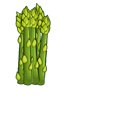
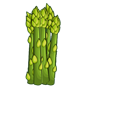
new crop orb: Spinach

Changed region(s): [[0.0938, 0.0, 0.5, 0.6875]]

diff --git a/src/main/java/thesimpleton/crops/SpinachCrop.java b/src/main/java/thesimpleton/crops/SpinachCrop.java
@@ -5,33 +5,36 @@ import com.megacrit.cardcrawl.cards.AbstractCard;
 import com.megacrit.cardcrawl.characters.AbstractPlayer;
 import com.megacrit.cardcrawl.dungeons.AbstractDungeon;
 import com.megacrit.cardcrawl.powers.DexterityPower;
+import com.megacrit.cardcrawl.powers.StrengthPower;
 import thesimpleton.cards.SimpletonUtil;
 import thesimpleton.cards.power.crop.AbstractCropPowerCard;
-import thesimpleton.cards.power.crop.Asparagus;
-import thesimpleton.orbs.AsparagusCropOrb;
+import thesimpleton.cards.power.crop.Spinach;
+import thesimpleton.orbs.SpinachCropOrb;
 import thesimpleton.powers.utils.Crop;
 
-public class AsparagusCrop extends AbstractCrop {
-  public static final Crop CROP_ENUM = Crop.ASPARAGUS;
-  private static final String ORB_ID = AsparagusCropOrb.ORB_ID;
-  private static final AbstractCropPowerCard POWER_CARD = new Asparagus();
+public class SpinachCrop extends AbstractCrop {
+  public static final Crop CROP_ENUM = Crop.SPINACH;
+  private static final String ORB_ID = SpinachCropOrb.ORB_ID;
+  private static final AbstractCropPowerCard POWER_CARD = new Spinach();
+
   private static final AbstractCard.CardRarity RARITY = AbstractCard.CardRarity.UNCOMMON;
 
-  public static final int MATURITY_THRESHOLD = 3;
-  public static int DEXTERITY_PER_STACK = 1;
+  public static final int MATURITY_THRESHOLD = 2;
+  public static int STRENGTH_PER_STACK = 1;
 
-  public AsparagusCrop() {
+  public SpinachCrop() {
     super(CROP_ENUM, ORB_ID, POWER_CARD, RARITY, MATURITY_THRESHOLD);
-    logger.debug("MAKIN' Asparagus (instantiating Asparagus).");
+    logger.debug("MAKIN' Spinach (instantiating Spinach).");
   }
 
+  @Override
   protected int harvestAction(int harvestAmount) {
     AbstractPlayer player = SimpletonUtil.getPlayer();
+
     if (harvestAmount > 0) {
       AbstractDungeon.actionManager.addToTop(
           new ApplyPowerAction(player, player,
-              new DexterityPower(player, harvestAmount * DEXTERITY_PER_STACK),
-              harvestAmount * DEXTERITY_PER_STACK));
+              new StrengthPower(player, harvestAmount * STRENGTH_PER_STACK), harvestAmount * STRENGTH_PER_STACK));
     }
     return harvestAmount;
   }

diff --git a/src/main/java/thesimpleton/orbs/SpinachCropOrb.java b/src/main/java/thesimpleton/orbs/SpinachCropOrb.java
@@ -4,25 +4,24 @@ import com.megacrit.cardcrawl.core.CardCrawlGame;
 import com.megacrit.cardcrawl.localization.OrbStrings;
 import com.megacrit.cardcrawl.orbs.AbstractOrb;
 import thesimpleton.TheSimpletonMod;
-import thesimpleton.crops.AbstractCrop;
-import thesimpleton.crops.AsparagusCrop;
+import thesimpleton.cards.power.crop.Spinach;
 import thesimpleton.crops.SpinachCrop;
 import thesimpleton.powers.utils.Crop;
 
-public class AsparagusCropOrb extends AbstractCropOrb {
-  public static final Crop CROP_ENUM = Crop.ASPARAGUS;
-  public static final String ORB_ID = "TheSimpletonMod:AsparagusCropOrb";
-  public static final String IMG_PATH = "TheSimpletonMod/img/orbs/plantasparagus.png";
+public class SpinachCropOrb extends AbstractCropOrb {
+  public static final Crop CROP_ENUM = Crop.SPINACH;
+  public static final String ORB_ID = "TheSimpletonMod:SpinachCropOrb";
+  public static final String IMG_PATH = "TheSimpletonMod/img/orbs/plantspinach.png";
   private static final OrbStrings orbStrings;
   public static final String NAME;
   public static final String[] DESCRIPTIONS;
 
-  public AsparagusCropOrb() {
+  public SpinachCropOrb() {
     this(0);
   }
 
-  public AsparagusCropOrb(int amount) {
-    super(CROP_ENUM, ORB_ID, NAME, amount, AsparagusCrop.MATURITY_THRESHOLD, DESCRIPTIONS[0], IMG_PATH);
+  public SpinachCropOrb(int amount) {
+    super(CROP_ENUM, ORB_ID, NAME, amount, SpinachCrop.MATURITY_THRESHOLD, DESCRIPTIONS[0], IMG_PATH);
   }
 
   @Override
@@ -32,7 +31,7 @@ public class AsparagusCropOrb extends AbstractCropOrb {
 
   @Override
   public AbstractOrb makeCopy() {
-    return new AsparagusCropOrb();
+    return new SpinachCropOrb();
   }
 
   @Override
@@ -41,8 +40,8 @@ public class AsparagusCropOrb extends AbstractCropOrb {
   }
 
   private static String getDescription() {
-    return getGenericDescription(AsparagusCrop.MATURITY_THRESHOLD)
-        + " NL " + DESCRIPTIONS[0]  + AsparagusCrop.DEXTERITY_PER_STACK+ DESCRIPTIONS[1];
+    return getGenericDescription(SpinachCrop.MATURITY_THRESHOLD)
+        + " NL " + DESCRIPTIONS[0]  + SpinachCrop.STRENGTH_PER_STACK + DESCRIPTIONS[1];
   }
 
   @Override

diff --git a/src/main/java/thesimpleton/orbs/ChiliCropOrb.java b/src/main/java/thesimpleton/orbs/ChiliCropOrb.java
@@ -4,14 +4,14 @@ import com.megacrit.cardcrawl.core.CardCrawlGame;
 import com.megacrit.cardcrawl.localization.OrbStrings;
 import com.megacrit.cardcrawl.orbs.AbstractOrb;
 import thesimpleton.TheSimpletonMod;
+import thesimpleton.crops.ChilisCrop;
+import thesimpleton.crops.SpinachCrop;
 import thesimpleton.powers.utils.Crop;
 
 public class ChiliCropOrb extends AbstractCropOrb {
   public static final Crop CROP_ENUM = Crop.CHILIS;
   public static final String ORB_ID = "TheSimpletonMod:ChiliCropOrb";
   public static final String IMG_PATH = "TheSimpletonMod/img/orbs/plantchili.png";
-  public static final int MATURITY_THRESHOLD = 5;
-  public static final int DAMAGE_PER_STACK = 3;
   private static final OrbStrings orbStrings;
   public static final String NAME;
   public static final String[] DESCRIPTIONS;
@@ -21,7 +21,7 @@ public class ChiliCropOrb extends AbstractCropOrb {
   }
 
   public ChiliCropOrb(int amount) {
-    super(CROP_ENUM, ORB_ID, NAME, amount, MATURITY_THRESHOLD, DESCRIPTIONS[0], IMG_PATH);
+    super(CROP_ENUM, ORB_ID, NAME, amount, SpinachCrop.MATURITY_THRESHOLD, DESCRIPTIONS[0], IMG_PATH);
   }
 
   @Override
@@ -40,8 +40,9 @@ public class ChiliCropOrb extends AbstractCropOrb {
   }
 
   private static String getDescription() {
-    return getGenericDescription(MATURITY_THRESHOLD)
-        + " NL " + DESCRIPTIONS[0] + DAMAGE_PER_STACK + DESCRIPTIONS[1] + DAMAGE_PER_STACK + DESCRIPTIONS[2];
+    return getGenericDescription(SpinachCrop.MATURITY_THRESHOLD)
+        + " NL " + DESCRIPTIONS[0] + ChilisCrop.DAMAGE_PER_STACK + DESCRIPTIONS[1] + ChilisCrop.DAMAGE_PER_STACK
+        + DESCRIPTIONS[2];
   }
 
   @Override

diff --git a/src/main/java/thesimpleton/orbs/PotatoCropOrb.java b/src/main/java/thesimpleton/orbs/PotatoCropOrb.java
@@ -4,13 +4,13 @@ import com.megacrit.cardcrawl.core.CardCrawlGame;
 import com.megacrit.cardcrawl.localization.OrbStrings;
 import com.megacrit.cardcrawl.orbs.AbstractOrb;
 import thesimpleton.TheSimpletonMod;
+import thesimpleton.crops.PotatoesCrop;
 import thesimpleton.powers.utils.Crop;
 
 public class PotatoCropOrb extends AbstractCropOrb {
     public static final Crop CROP_ENUM = Crop.POTATOES;
     public static final String ORB_ID = "TheSimpletonMod:PotatoCropOrb";
     public static final String IMG_PATH = "TheSimpletonMod/img/orbs/plantpotato.png";
-    public static final int MATURITY_THRESHOLD = 2;
     private static final OrbStrings orbStrings;
     public static final String NAME;
     public static final String[] DESCRIPTIONS;
@@ -20,7 +20,7 @@ public class PotatoCropOrb extends AbstractCropOrb {
     }
 
     public PotatoCropOrb(int amount) {
-        super(CROP_ENUM, ORB_ID, NAME, amount, MATURITY_THRESHOLD, DESCRIPTIONS[0], IMG_PATH);
+        super(CROP_ENUM, ORB_ID, NAME, amount, PotatoesCrop.MATURITY_THRESHOLD, DESCRIPTIONS[0], IMG_PATH);
     }
 
     @Override
@@ -39,7 +39,7 @@ public class PotatoCropOrb extends AbstractCropOrb {
     }
 
     private static String getDescription() {
-        return getGenericDescription(MATURITY_THRESHOLD)
+        return getGenericDescription(PotatoesCrop.MATURITY_THRESHOLD)
             + " NL " + DESCRIPTIONS[0];
     }
 

diff --git a/src/main/java/thesimpleton/orbs/MushroomCropOrb.java b/src/main/java/thesimpleton/orbs/MushroomCropOrb.java
@@ -4,13 +4,13 @@ import com.megacrit.cardcrawl.core.CardCrawlGame;
 import com.megacrit.cardcrawl.localization.OrbStrings;
 import com.megacrit.cardcrawl.orbs.AbstractOrb;
 import thesimpleton.TheSimpletonMod;
+import thesimpleton.crops.MushroomCrop;
 import thesimpleton.powers.utils.Crop;
 
 public class MushroomCropOrb extends AbstractCropOrb {
   public static final Crop CROP_ENUM = Crop.MUSHROOMS;
   public static final String ORB_ID = "TheSimpletonMod:MushroomCropOrb";
   public static final String IMG_PATH = "TheSimpletonMod/img/orbs/plantmushroom.png";
-  public static final int MATURITY_THRESHOLD = 2;
   private static final OrbStrings orbStrings;
   public static final String NAME;
   public static final String[] DESCRIPTIONS;
@@ -20,7 +20,7 @@ public class MushroomCropOrb extends AbstractCropOrb {
   }
 
   public MushroomCropOrb(int amount) {
-    super(CROP_ENUM, ORB_ID, NAME, amount, MATURITY_THRESHOLD, DESCRIPTIONS[0], IMG_PATH);
+    super(CROP_ENUM, ORB_ID, NAME, amount, MushroomCrop.MATURITY_THRESHOLD, DESCRIPTIONS[0], IMG_PATH);
   }
 
   @Override
@@ -39,7 +39,7 @@ public class MushroomCropOrb extends AbstractCropOrb {
   }
 
   private static String getDescription() {
-    return getGenericDescription(MATURITY_THRESHOLD)
+    return getGenericDescription(MushroomCrop.MATURITY_THRESHOLD)
         + " NL " + DESCRIPTIONS[0];
   }
 

diff --git a/src/main/java/thesimpleton/crops/AbstractCrop.java b/src/main/java/thesimpleton/crops/AbstractCrop.java
@@ -16,7 +16,6 @@ import thesimpleton.cards.TheSimpletonCardTags;
 import thesimpleton.cards.power.crop.AbstractCropPowerCard;
 import thesimpleton.characters.TheSimpletonCharacter;
 import thesimpleton.orbs.AbstractCropOrb;
-import thesimpleton.powers.PlantAsparagusPower;
 import thesimpleton.powers.ToughSkinPower;
 import thesimpleton.powers.utils.Crop;
 import thesimpleton.relics.CashCrop;
@@ -309,7 +308,8 @@ abstract public class AbstractCrop {
       final MushroomCrop mushroomCrop = new MushroomCrop();
 //      final PlantOnionPower onionPower = new PlantOnionPower(dummy, 0);
       final PotatoesCrop potatoesCrop = new PotatoesCrop();
-//      final PlantSpinachPower spinachPower = new PlantSpinachPower(dummy, 0);
+      final SpinachCrop spinachCrop = new SpinachCrop();
+
 //      final PlantTurnipPower turnipPower = new PlantTurnipPower(dummy, 0);
 
 //      referenceCrops.add(artichokePower);
@@ -318,10 +318,9 @@ abstract public class AbstractCrop {
       referenceCrops.add(potatoesCrop);
       referenceCrops.add(cornCrop);
       referenceCrops.add(squashCrop);
-//      referenceCrops.add(spinachPower);
+      referenceCrops.add(spinachCrop);
       referenceCrops.add(mushroomCrop);
 //      referenceCrops.add(onionPower);
-//      referenceCrops.add(potatoPower);
 //      referenceCrops.add(turnipPower);
 
     }

diff --git a/src/main/java/thesimpleton/orbs/CornCropOrb.java b/src/main/java/thesimpleton/orbs/CornCropOrb.java
@@ -4,13 +4,13 @@ import com.megacrit.cardcrawl.core.CardCrawlGame;
 import com.megacrit.cardcrawl.localization.OrbStrings;
 import com.megacrit.cardcrawl.orbs.AbstractOrb;
 import thesimpleton.TheSimpletonMod;
+import thesimpleton.crops.CornCrop;
 import thesimpleton.powers.utils.Crop;
 
 public class CornCropOrb extends AbstractCropOrb {
   public static final Crop CROP_ENUM = Crop.CORN;
   public static final String ORB_ID = "TheSimpletonMod:CornCropOrb";
   public static final String IMG_PATH = "TheSimpletonMod/img/orbs/plantcorn.png";
-  public static final int MATURITY_THRESHOLD = 2;
   private static final OrbStrings orbStrings;
   public static final String NAME;
   public static final String[] DESCRIPTIONS;
@@ -20,7 +20,7 @@ public class CornCropOrb extends AbstractCropOrb {
   }
 
   public CornCropOrb(int amount) {
-    super(CROP_ENUM, ORB_ID, NAME, amount, MATURITY_THRESHOLD, DESCRIPTIONS[0], IMG_PATH);
+    super(CROP_ENUM, ORB_ID, NAME, amount, CornCrop.MATURITY_THRESHOLD, DESCRIPTIONS[0], IMG_PATH);
   }
 
   @Override
@@ -39,7 +39,7 @@ public class CornCropOrb extends AbstractCropOrb {
   }
 
   private static String getDescription() {
-    return getGenericDescription(MATURITY_THRESHOLD)
+    return getGenericDescription(CornCrop.MATURITY_THRESHOLD)
         + " NL " + DESCRIPTIONS[0];
   }
 

diff --git a/src/main/java/thesimpleton/cards/power/crop/Spinach.java b/src/main/java/thesimpleton/cards/power/crop/Spinach.java
@@ -9,8 +9,11 @@ import com.megacrit.cardcrawl.localization.CardStrings;
 import com.megacrit.cardcrawl.monsters.AbstractMonster;
 import thesimpleton.TheSimpletonMod;
 import thesimpleton.actions.ApplyCropAction;
+import thesimpleton.actions.CropSpawnAction;
 import thesimpleton.cards.TheSimpletonCardTags;
 import thesimpleton.enums.AbstractCardEnum;
+import thesimpleton.orbs.AsparagusCropOrb;
+import thesimpleton.orbs.SpinachCropOrb;
 import thesimpleton.powers.PlantSpinachPower;
 
 public class Spinach extends AbstractCropPowerCard {
@@ -37,8 +40,10 @@ public class Spinach extends AbstractCropPowerCard {
 
   @Override
   public void use(AbstractPlayer p, AbstractMonster m) {
-    AbstractDungeon.actionManager.addToBottom(
-        new ApplyCropAction(p, p, new PlantSpinachPower(p, this.magicNumber, true), this.magicNumber, true));
+//    AbstractDungeon.actionManager.addToBottom(
+//        new ApplyCropAction(p, p, new PlantSpinachPower(p, this.magicNumber, true), this.magicNumber, true));
+    AbstractDungeon.actionManager.addToBottom(new CropSpawnAction(new SpinachCropOrb(this.magicNumber)));
+
   }
 
   @Override

diff --git a/src/main/java/thesimpleton/orbs/SquashCropOrb.java b/src/main/java/thesimpleton/orbs/SquashCropOrb.java
@@ -4,6 +4,7 @@ import com.megacrit.cardcrawl.core.CardCrawlGame;
 import com.megacrit.cardcrawl.localization.OrbStrings;
 import com.megacrit.cardcrawl.orbs.AbstractOrb;
 import thesimpleton.TheSimpletonMod;
+import thesimpleton.crops.SquashCrop;
 import thesimpleton.powers.utils.Crop;
 
 public class SquashCropOrb extends AbstractCropOrb {
@@ -14,8 +15,6 @@ public class SquashCropOrb extends AbstractCropOrb {
   private static final OrbStrings orbStrings;
   public static final String NAME;
   public static final String[] DESCRIPTIONS;
-
-  private static final int BLOCK_PER_STACK = 6;
 
   public SquashCropOrb() {
     this(0);
@@ -42,7 +41,7 @@ public class SquashCropOrb extends AbstractCropOrb {
 
   private static String getDescription() {
     return getGenericDescription(MATURITY_THRESHOLD)
-        + " NL " + DESCRIPTIONS[0] + BLOCK_PER_STACK + DESCRIPTIONS[1];
+        + " NL " + DESCRIPTIONS[0] + SquashCrop.BLOCK_PER_STACK + DESCRIPTIONS[1];
   }
 
   @Override

diff --git a/src/main/java/thesimpleton/crops/ChilisCrop.java b/src/main/java/thesimpleton/crops/ChilisCrop.java
@@ -16,15 +16,16 @@ public class ChilisCrop extends  AbstractCrop {
   private static final String ORB_ID = ChiliCropOrb.ORB_ID;
   private static final AbstractCropPowerCard POWER_CARD = new Chilis();
 
-  public static final int MATURITY_THRESHOLD = 5;
   private static final AbstractCard.CardRarity RARITY = AbstractCard.CardRarity.UNCOMMON;
 
-  private static int BASE_DAMAGE_STACK = 4;
+  public static final int MATURITY_THRESHOLD = 5;
+  public static int DAMAGE_PER_STACK = 3;
+
   private int damagePerStack;
 
   public ChilisCrop() {
     super(CROP_ENUM, ORB_ID, POWER_CARD, RARITY, MATURITY_THRESHOLD);
-    this.damagePerStack = BASE_DAMAGE_STACK;
+    this.damagePerStack = DAMAGE_PER_STACK;
   }
 
   protected int harvestAction(int harvestAmount) {

diff --git a/src/main/java/thesimpleton/crops/SquashCrop.java b/src/main/java/thesimpleton/crops/SquashCrop.java
@@ -15,10 +15,10 @@ public class SquashCrop extends AbstractCrop {
   private static final String ORB_ID = SquashCropOrb.ORB_ID;
   private static final AbstractCropPowerCard POWER_CARD = new Squash();
 
-  public static final int MATURITY_THRESHOLD = 5;
   private static final AbstractCard.CardRarity RARITY = AbstractCard.CardRarity.UNCOMMON;
 
-  private static final int BLOCK_PER_STACK = 6;
+  public static final int MATURITY_THRESHOLD = 5;
+  public static final int BLOCK_PER_STACK = 6;
 
   public SquashCrop() {
     super(CROP_ENUM, ORB_ID, POWER_CARD, RARITY, MATURITY_THRESHOLD);

diff --git a/src/main/java/thesimpleton/powers/utils/Crop.java b/src/main/java/thesimpleton/powers/utils/Crop.java
@@ -14,7 +14,7 @@ public enum Crop {
   MUSHROOMS(new MushroomCrop()),
   ONIONS(null),
   POTATOES(new PotatoesCrop()),
-  SPINACH(null),
+  SPINACH(new SpinachCrop()),
   TURNIPS(null);
 
   Crop(AbstractCrop crop) {
@@ -75,7 +75,7 @@ public enum Crop {
       case POTATOES:
         return new PotatoCropOrb(amount);
       case SPINACH:
-//        return new SpinachCropOrb(amount);
+        return new SpinachCropOrb(amount);
       case SQUASH:
         return new SquashCropOrb(amount);
       case TURNIPS:
